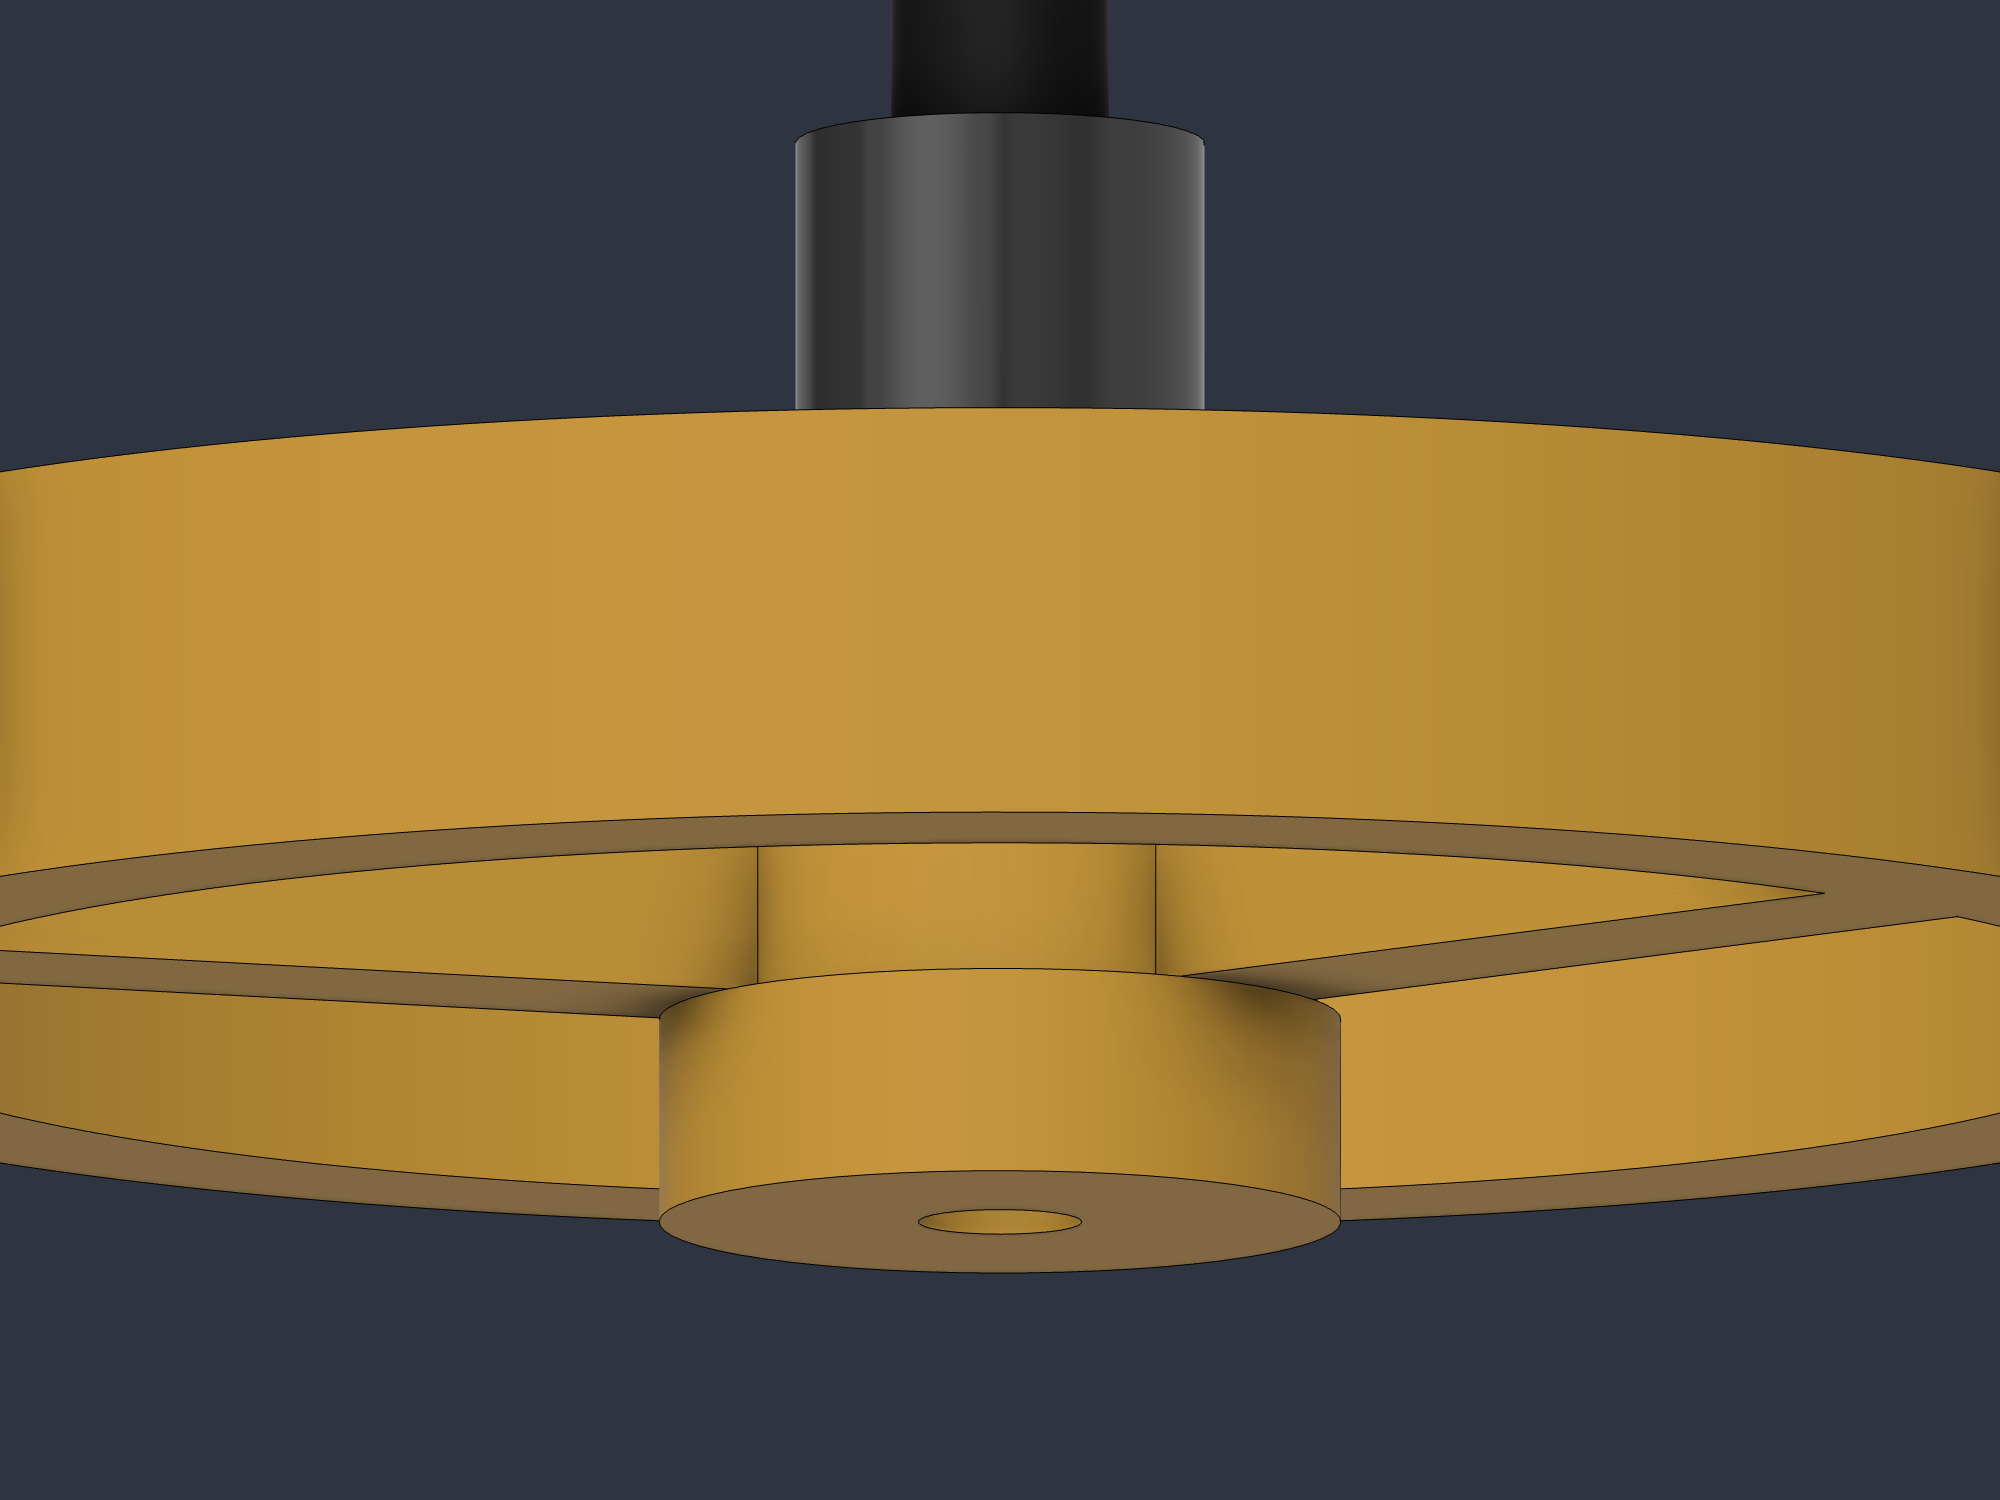
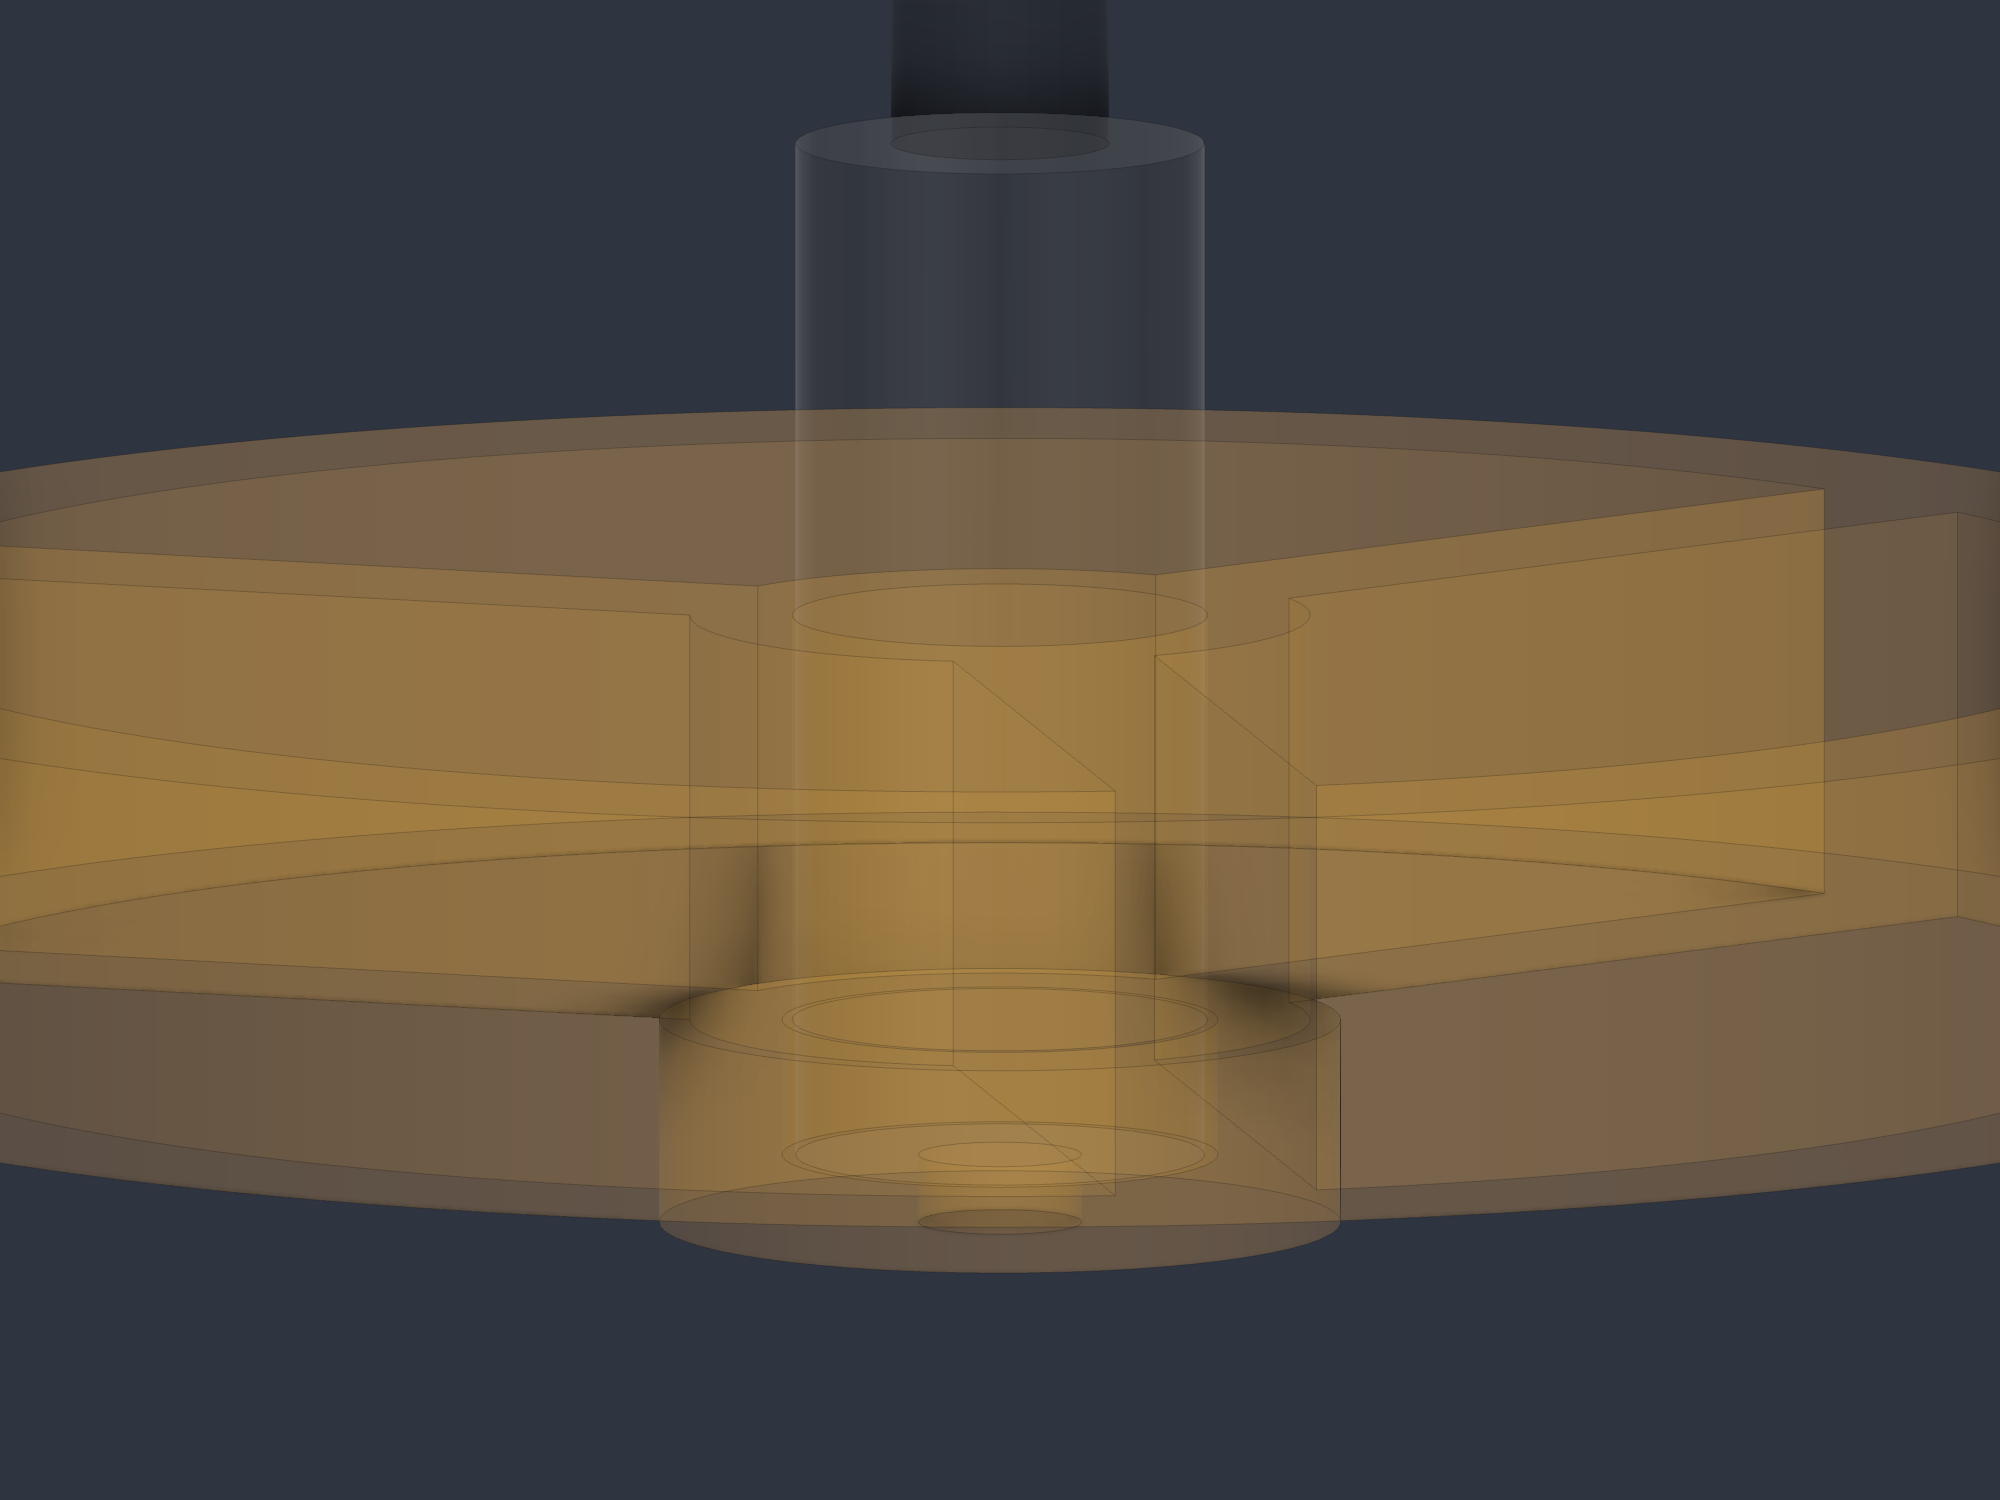
docs: the branch is two fittings, and name them properly
The renders showed a tee whose branch curves 90 degrees down. No maker
sells that. It is a reducing SANITARY tee plus a 1-1/2" street 90 glued
into its branch hub, which is why searching for a "reducing tee" turns
up nothing usable - the word that matters in DWV is "sanitary".

Adds the fittings to the parts table with real part numbers, notes that
the elbow must be a street elbow so its spigot enters the hub without a
nipple, and gives the 3x3x3 tee plus 3 x 1-1/2 bushing fallback for when
the reducing tee is backordered.

_branch_hub swells the outboard end of the branch so the joint between
the two fittings is visible in the renders. Revolved about a sketch line
rather than extruded, because the branch axis runs along X and every
verified plane convention here is for XZ sketches extruding +Y.

Claude-Session: https://claude.ai/code/session_01KBwUcRoQgC2qoPoadKhhvs

diff --git a/hardware/mic-housing/fusion_build.py b/hardware/mic-housing/fusion_build.py
@@ -529,6 +529,10 @@ TEE = {
     "run_wall": 4.57,
     "run_bot": 70.0,     # open lower end; the inlet cap slips on here
     "run_top": 300.0,    # open upper end; the outlet cap slips on here
+    "run_axis_x": 122.15,
+    # Where the tee's branch hub ends and the street elbow begins. Outboard of
+    # this face is a separate fitting you buy separately.
+    "hub_joint_x": 67.15,
 }
 
 
@@ -571,6 +575,7 @@ def build_tee_body(root):
     _combine(comp, bore_branch, bore_run, JOIN)
 
     _combine(comp, outer_branch, bore_branch, CUT)
+    _branch_hub(comp)
     _mouth_socket(comp, outer_branch)
     outer_branch.name = "tee body"
 
@@ -578,6 +583,45 @@ def build_tee_body(root):
         raise RuntimeError("tee left %d bodies, expected 1" % comp.bRepBodies.count)
     report(comp)
     return comp
+
+
+def _branch_hub(comp):
+    """Swell the outboard part of the branch into a hub.
+
+    THIS IS TWO FITTINGS, not one. No maker sells a tee whose branch curves 90
+    degrees downward. What you buy is a reducing SANITARY tee plus a 1-1/2"
+    street 90 whose spigot glues into the tee's branch hub. The model sweeps the
+    branch as one continuous solid for simplicity, so without this swell the
+    render invites you to shop for a part that does not exist.
+
+    The hub's end face at `x0` is the joint: everything outboard of it is the
+    street elbow, everything inboard is the tee.
+
+    Revolved rather than extruded because the branch axis runs along X, and every
+    verified plane convention here is for XZ sketches, whose extrudes travel +Y.
+    A revolve about a sketch line needs only an XY sketch.
+    """
+    p, t = PARAMS, TEE
+    branch_y = p["leg_mouth"] + p["bend_radius"]
+    x0, x1 = t["hub_joint_x"], t["run_axis_x"] - 17.0
+    y_lo = branch_y + p["pipe_od"] / 2.0
+    y_hi = branch_y + (p["socket_id"] + 2 * p["wall"]) / 2.0
+
+    sk = comp.sketches.add(comp.xYConstructionPlane)
+    lines = sk.sketchCurves.sketchLines
+    axis = lines.addByTwoPoints(pt(x0 - 12, branch_y, 0), pt(x1 + 12, branch_y, 0))
+    corners = [pt(x0, y_lo, 0), pt(x1, y_lo, 0), pt(x1, y_hi, 0), pt(x0, y_hi, 0)]
+    for i in range(4):
+        lines.addByTwoPoints(corners[i], corners[(i + 1) % 4])
+
+    profiles = [pr for pr in sk.profiles if pr.profileLoops.count == 1]
+    if len(profiles) != 1:
+        raise RuntimeError("branch hub sketch made %d profiles, expected 1"
+                           % len(profiles))
+    revolves = comp.features.revolveFeatures
+    ri = revolves.createInput(profiles[0], axis, JOIN)
+    ri.setAngleExtent(False, adsk.core.ValueInput.createByString("360 deg"))
+    revolves.add(ri)
 
 
 def _mouth_socket(comp, body):

diff --git a/hardware/mic-housing/parts/06_tee.py b/hardware/mic-housing/parts/06_tee.py
@@ -10,6 +10,10 @@ TEE = {
     "run_wall": 4.57,
     "run_bot": 70.0,     # open lower end; the inlet cap slips on here
     "run_top": 300.0,    # open upper end; the outlet cap slips on here
+    "run_axis_x": 122.15,
+    # Where the tee's branch hub ends and the street elbow begins. Outboard of
+    # this face is a separate fitting you buy separately.
+    "hub_joint_x": 67.15,
 }
 
 
@@ -52,6 +56,7 @@ def build_tee_body(root):
     _combine(comp, bore_branch, bore_run, JOIN)
 
     _combine(comp, outer_branch, bore_branch, CUT)
+    _branch_hub(comp)
     _mouth_socket(comp, outer_branch)
     outer_branch.name = "tee body"
 
@@ -59,6 +64,45 @@ def build_tee_body(root):
         raise RuntimeError("tee left %d bodies, expected 1" % comp.bRepBodies.count)
     report(comp)
     return comp
+
+
+def _branch_hub(comp):
+    """Swell the outboard part of the branch into a hub.
+
+    THIS IS TWO FITTINGS, not one. No maker sells a tee whose branch curves 90
+    degrees downward. What you buy is a reducing SANITARY tee plus a 1-1/2"
+    street 90 whose spigot glues into the tee's branch hub. The model sweeps the
+    branch as one continuous solid for simplicity, so without this swell the
+    render invites you to shop for a part that does not exist.
+
+    The hub's end face at `x0` is the joint: everything outboard of it is the
+    street elbow, everything inboard is the tee.
+
+    Revolved rather than extruded because the branch axis runs along X, and every
+    verified plane convention here is for XZ sketches, whose extrudes travel +Y.
+    A revolve about a sketch line needs only an XY sketch.
+    """
+    p, t = PARAMS, TEE
+    branch_y = p["leg_mouth"] + p["bend_radius"]
+    x0, x1 = t["hub_joint_x"], t["run_axis_x"] - 17.0
+    y_lo = branch_y + p["pipe_od"] / 2.0
+    y_hi = branch_y + (p["socket_id"] + 2 * p["wall"]) / 2.0
+
+    sk = comp.sketches.add(comp.xYConstructionPlane)
+    lines = sk.sketchCurves.sketchLines
+    axis = lines.addByTwoPoints(pt(x0 - 12, branch_y, 0), pt(x1 + 12, branch_y, 0))
+    corners = [pt(x0, y_lo, 0), pt(x1, y_lo, 0), pt(x1, y_hi, 0), pt(x0, y_hi, 0)]
+    for i in range(4):
+        lines.addByTwoPoints(corners[i], corners[(i + 1) % 4])
+
+    profiles = [pr for pr in sk.profiles if pr.profileLoops.count == 1]
+    if len(profiles) != 1:
+        raise RuntimeError("branch hub sketch made %d profiles, expected 1"
+                           % len(profiles))
+    revolves = comp.features.revolveFeatures
+    ri = revolves.createInput(profiles[0], axis, JOIN)
+    ri.setAngleExtent(False, adsk.core.ValueInput.createByString("360 deg"))
+    revolves.add(ri)
 
 
 def _mouth_socket(comp, body):

diff --git a/hardware/mic-housing/PROGRESS.md b/hardware/mic-housing/PROGRESS.md
@@ -49,7 +49,7 @@ fitting. Parts 2-5 are unaffected; they live in the branch bore regardless.
 
 | Part | File | Evidence |
 |---|---|---|
-| PVC 3x3x1-1/2 reducing tee | `06_tee.py` | 373558 mm3, one body, bbox x[-28.08, 166.6] y[0, 300] z[+-44.45]. The x and y minima are the checks that matter: -28.08 is exactly the 56.16 hub radius, and y=0 means the mouth survived the socket cut. |
+| PVC 3x3x1-1/2 reducing tee | `06_tee.py` | 394902 mm3 (373558 before the branch hub), one body, bbox x[-28.08, 166.6] y[0, 300] z[+-44.45]. The x and y minima are the checks that matter: -28.08 is exactly the 56.16 hub radius, and y=0 means the mouth survived the socket cut. |
 | Pi sled | `07_pi_sled.py` | One welded body, 31114 mm3, bbox x[82.47, 161.83] y[175, 267] z[+-39.68]. Two ribs at 79.36 press-fit the 79.76 bore; six 14 mm lightening cutouts; four 9 mm bosses bored 4.0 x 4.0 for CNC Kitchen M3 x 3 short heat-set inserts. Volume moved 29901 -> 31114 = +365 for the larger bosses net of their bores, +848 from shrinking the lightening holes 16 -> 14 to clear them. |
 | Pi board | `07_pi_sled.py` | Reference. 2730 mm3 = 65 x 30 x 1.4 exactly, standing off the spine at z 5.5..6.9. |
 | Mushroom vent cap | `08_caps.py` | Purchased, modelled. 121328 mm3, one body, bbox y[275, 339] x[66.15, 178.15] = the 112 crown centred on the run axis. Skirt clamps the pipe, crown stands off on three posts so air exits radially. |
@@ -165,6 +165,14 @@ Fusion 2704.1.36.
   Yellow|Blue|Red)`, `Plastic - Matte (same set + Gray)`, `Plastic - Translucent
   Matte (White|Gray|Green|Red|Blue)`, `Aluminum - Anodized Glossy (Grey|Blue|
   Red)`, `Paint - Enamel Glossy (...)`. There is still no "PVC".
+* **The branch is two fittings.** No maker sells a tee whose branch curves 90
+  degrees down; it is a reducing SANITARY tee plus a 1-1/2" street 90. The model
+  sweeps the branch in one pass for simplicity, so `_branch_hub` swells the
+  outboard end into a hub - without it the render invites shopping for a part
+  that does not exist, which is exactly what happened.
+* Cylinders whose axis runs along **X** cannot use the verified XZ-sketch
+  conventions (those extrude +Y). Revolve a profile about a sketch line instead:
+  that needs only an XY sketch and no new axis-mapping facts.
 * Heat-set inserts are dimensioned from the supplier datasheet, not from habit.
   CNC Kitchen M3 x 3 short: 4.6 body, 3.0 long, 4.0 hole, 4.0 minimum blind
   depth, 1.6 minimum wall. `build_pi_sled` asserts both the wall rule and the

diff --git a/docs/outdoor-deployment.md b/docs/outdoor-deployment.md
@@ -361,12 +361,31 @@ capsule, and it is rigidly coupled to the same plastic the capsule is mounted in
 
 Both caps are purchased, not printed:
 
+**This is two fittings, not one.** Nobody sells a tee whose branch curves down — what you
+want is a reducing *sanitary* tee plus a street elbow glued into its branch. Searching for
+a "reducing tee" in DWV is why it doesn't turn up; the word that matters is **sanitary**.
+
 | Qty | Part | Approx | Notes |
 |-----|------|--------|-------|
+| 1 | 3×3×1½" PVC DWV reducing **sanitary** tee | ~$12 | [Charlotte PVC 00401][santee] — also at [Lowe's][santeelowes]. |
+| 1 | 1½" PVC DWV **street** 90° elbow | ~$3 | Street, not regular: its spigot end glues straight into the tee's branch hub, with no pipe nipple between. |
+| 1 | 3" PVC DWV pipe, ~600 mm | ~$10 | Cut into the run above and below the tee. |
 | 1 | Oatey mushroom vent cap, 3" | ~$10 | Top. Sheds rain, passes air. Check it ships with a screen. |
 | 1 | 3" PVC cap, drilled + screened | ~$5 | Bottom. **Never leave it solid** — see below. |
 | 4 | CNC Kitchen M3 x 3 short heat-set inserts | ~$1 | Pi mounting in the printed sled. |
 | — | Stainless hose clamps | ~$3 | Hold the screens at both cap ends. |
+
+If the reducing sanitary tee is backordered — it sometimes is — buy a plain **3×3×3 DWV
+sanitary tee** and a **3" × 1½" reducer bushing** ([Charlotte PVC 00107][bushing]) instead.
+Both are stocked everywhere, and the assembled dimensions come out the same.
+
+In the renders the tee and elbow are drawn as one continuous body, because the model sweeps
+the branch in a single pass. The **step partway along the branch is the joint**: everything
+outboard of it is the street elbow, everything inboard is the tee.
+
+[santee]: https://www.homedepot.com/p/Charlotte-Pipe-3-in-x-3-in-x-1-1-2-in-DWV-PVC-Sanitary-Tee-Reducing-PVC004011200HD/203396203
+[santeelowes]: https://www.lowes.com/pd/Charlotte-Pipe-3-in-x-3-in-x-1-1-2-in-dia-PVC-Schedule-40-Hub-Sanitary-Tee-Fitting/3132825
+[bushing]: https://www.lowes.com/pd/Charlotte-Pipe-3-in-x-1-1-2-in-dia-PVC-Schedule-40-Spigot-Flush-Bushing-Fitting/3357818
 
 Don't substitute an NDS drain grate at the bottom. Those fit **sewer-and-drain** pipe at
 about 4.215" OD; Schedule 40 / DWV is 4.500", so it will not fit.
